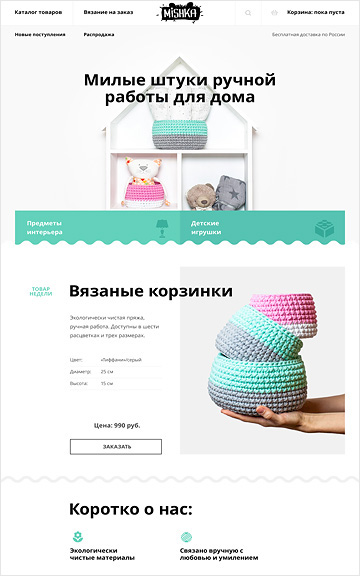
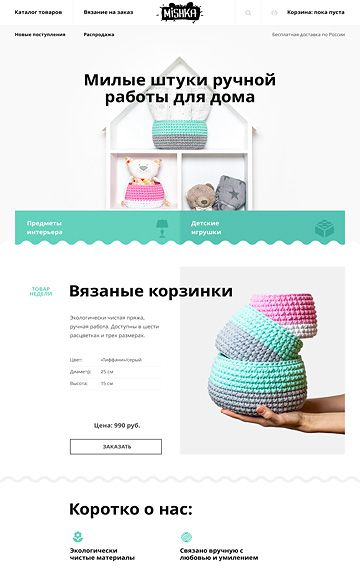
Сделала слайдер, заменила картинки, прошлась по стаилгайду

diff --git a/index.html b/index.html
@@ -24,44 +24,59 @@
       </div>
     </header>
     <main>
+      <input class="visually-hidden" type="radio" id="product-1" name="toggle" checked>
+      <input class="visually-hidden" type="radio" id="product-2" name="toggle">
+      <input class="visually-hidden" type="radio" id="product-3" name="toggle">
+
       <div class="slider-background">
         <div class="container">
           <section class="slider-section">
+            <div class="slider-controls">
+              <label for="product-1">Первый</label>
+              <label for="product-2">Второй</label>
+              <label for="product-3">Третий</label>
+            </div>
             
-            <div class="slider-box">
-              <div>
-                <h3 class="slider-title phone">Долго, догоро, скурпулезно.</h3>
-                <p class="slider-text phone">Математически выверенный дизайн<br> 
-                для вашего сайта или мобильного приложения.</p>
-                <a class="main-button" href="#">Узнать больше</a>
-              </div>
-              <div>
-                <img class="slider-image-phone" src="img/slide-picture_phone.png" width="698" height="413" alt="слайдер-телефоны">
+            <div class="slide" id="slide1">
+              <div class="slider-box">
+                <div class="slider-description">
+                  <h3 class="slider-title phone">Долго, догоро, скурпулезно.</h3>
+                  <p class="slider-text phone">Математически выверенный дизайн<br> 
+                  для вашего сайта или мобильного приложения.</p>
+                  <a class="main-button" href="#">Узнать больше</a>
+                </div>
+                <div>
+                  <img class="slider-image-phone" src="img/slide-picture_phone.png" width="698" height="413" alt="слайдер-телефоны">
+                </div>
               </div>
             </div>
             
-            <div class="slider-box">
-              <div>
-                <h3 class="slider-title pc">Любим математику как никто другой</h3>
-                <p class="slider-text pc">Никакого креатива, только математические формулы для расчета идеальных пропорций.</p>
-                <a class="main-button" href="#">Узнать больше</a>
-              </div>
-              <div>
-                <img class="slider-image-pc" src="img/slide-picture_pc.png" width="663" height="430" alt="слайдер-компьютеры">
+            <div class="slide" id="slide2">
+              <div class="slider-box">
+                <div class="slider-description">
+                  <h3 class="slider-title pc">Любим математику как никто другой</h3>
+                  <p class="slider-text pc">Никакого креатива, только математические формулы для расчета идеальных пропорций.</p>
+                  <a class="main-button" href="#">Узнать больше</a>
+                </div>
+                <div>
+                  <img class="slider-image-pc" src="img/slide-picture_pc.png" width="663" height="413" alt="слайдер-компьютеры">
+                </div>
               </div>
             </div>
             
-            <div class="slider-box">
-              <div>
-                <h3 class="slider-title gadget">Только ночь, только хардкор</h3>
-                <p class="slider-text gadget">Работать днем, как все? Мы против этого.<br> Ближе к полуночи работа только начинается.</p>
-                <a class="main-button" href="#">Узнать больше</a>
-              </div>
-              <div>
-                <img class="slider-image-gadget" src="img/slide-picture_gadget.png" width="759" height="411" alt="слайдер-телефоны">
+            <div class="slide" id="slide3">
+              <div class="slider-box">
+                <div class="slider-description">
+                  <h3 class="slider-title gadget">Только ночь, только хардкор</h3>
+                  <p class="slider-text gadget">Работать днем, как все? Мы против этого.<br> Ближе к полуночи работа только начинается.</p>
+                  <a class="main-button" href="#">Узнать больше</a>
+                </div>
+                <div>
+                  <img class="slider-image-gadget" src="img/slide-picture_gadget.png" width="759" height="413" alt="слайдер-телефоны">
+                </div>
               </div>
             </div>
-            <div>Переключатель</div>
+            
           </section>
         </div>
       </div>

diff --git a/css/styles.css b/css/styles.css
@@ -100,13 +100,12 @@ a {
   color: #000000;
 }
 
-.links-item:hover,
-.links-item:focus {
+.links-item:hover{
   color: #fb565a;
 }
 
 .links-item:active {
-  opacity: 0.3;
+  color: rgba(0, 0, 0, 0.3);
 }
 
 .links-item-active {
@@ -145,6 +144,60 @@ a {
   width: 1160px;
   margin: 0 auto;
   margin-bottom: 80px;
+  position: relative;
+}
+
+.slider-controls label {
+  display: inline-block;
+  width: 18px;
+  height: 18px;
+  margin-right: 17px;
+
+  vertical-align: top;
+
+  background-color: transparent;
+  border: 10px solid #ffffff;
+  border-radius: 50%;
+  cursor: pointer;
+  position: relative;
+}
+
+.slider-controls label::after {
+  content: "";
+
+  position: absolute;
+  top: -5px;
+  left: -5px;
+
+  width: 10px;
+  height: 10px;
+
+  background-color: transparent;
+  border: 3px solid #c1c1c1;
+  border-radius: 50%;
+}
+
+.slider-controls {
+  position: absolute;
+  bottom: 92px;
+  left: 500px;
+  z-index: 20;
+  
+  font-size: 0;
+}
+
+.slide {
+  display: none;
+}
+
+#product-1:checked ~ .slider-background #slide1,
+#product-2:checked ~ .slider-background #slide2,
+#product-3:checked ~ .slider-background #slide3 {
+  display: block;
+}
+
+.slider-description {
+  padding-top: 67px;
 }
 
 .slider-box {
@@ -217,10 +270,6 @@ a {
   background-color: #d7373b;
   color: rgba(255, 255, 255, 0.3);
   box-shadow: 0 3 0 0 rgba(0, 1, 1, 0.1);
-}
-
-.slider-section img {
-  position: absolute;
 }
 
 .goods {
@@ -601,9 +650,13 @@ footer {
   opacity: 0.3;
 }
 
-.close-cross-button::before:hover,
-.close-cross-button::before:focus {
+.close-cross-button:hover::before,
+.close-cross-button:focus::before {
   opacity: 1;
+}
+
+.close-cross-button:active::before {
+  opacity: 0.1;
 }
 
 .popup-form {
@@ -696,6 +749,7 @@ footer {
   line-height: 30px;
   font-weight: bold;
   text-transform: uppercase;
+  margin: 0;
 }
 
 .visually-hidden:not(:focus):not(:active),
@@ -1000,7 +1054,31 @@ fieldset li{
 }
 
 .sort-features li {
-  padding-right: 26px;  
+  padding-right: 26px;
+  opacity: 0.3;  
+}
+
+.sort-features li:last-child {
+  padding-right: 0;
+}
+
+.sort-features li:hover,
+.sort-features li:focus {
+  opacity: 0.6;
+} 
+
+.sort-features li:active {
+  opacity: 1;
+} 
+
+.arrow {
+  display: flex;
+  margin: 0;
+}
+
+.arrow li {
+  list-style-type: none;
+  opacity: 0.2; 
 }
 
 .arrow-bottom {
@@ -1020,15 +1098,20 @@ fieldset li{
   border-bottom: 10px solid black;
 }
 
+.arrow li:hover,
+.arrow li:focus{
+   opacity: 0.6;
+} 
+
+.arrow li:active {
+  opacity: 1;
+} 
+
 .site-examples {
   display: flex;
   flex-wrap: wrap;
   justify-content: space-between;
   width: 760px;
-}
-
-.site-examples img {
-  
 }
 
 .site-examples-item {

diff --git a/catalog.html b/catalog.html
@@ -117,20 +117,21 @@
 
           <div class="site-cards">
             <div class="sort">
-              <span class="selection-title">Сортировать:</span>
-              <span class="sort-links">
-                <div>
-                  <ul class="sort-features">
-                    <li>по цене</li>
-                    <li>по типу</li>
-                    <li>по назначению</li>
-                  </ul>
-                </div>
-                <div>
-                  <span class="arrow-bottom"></span>
-                  <span class="arrow-top"></span>
-                </div>
-              <span>
+              <h2 class="selection-title">Сортировать:</h2>
+              <div class="sort-links">
+                
+                <ul class="sort-features">
+                  <li>по цене</li>
+                  <li>по типу</li>
+                  <li>по назначению</li>
+                </ul>
+                
+                <ul class="arrow">
+                  <li><a href="#" class="arrow-bottom" aria-label="Сортировка по убыванию"></a></li>
+                  <li><a href="#" class="arrow-top" aria-label="Сортировка по возрастанию"></a></li>
+                </ul>
+
+              </div>
             </div>
 
             <h2 class="visually-hidden">Готовые шаблоны</h2>
@@ -196,7 +197,7 @@
               <li class="page"><a href="#2">2</a></li>
               <li class="page"><a href="#3">3</a></li>
               <li class="page next"><a href="#next">Следующая</a></li>
-            </div>
+            </ul>
 
           </div>       
                   
